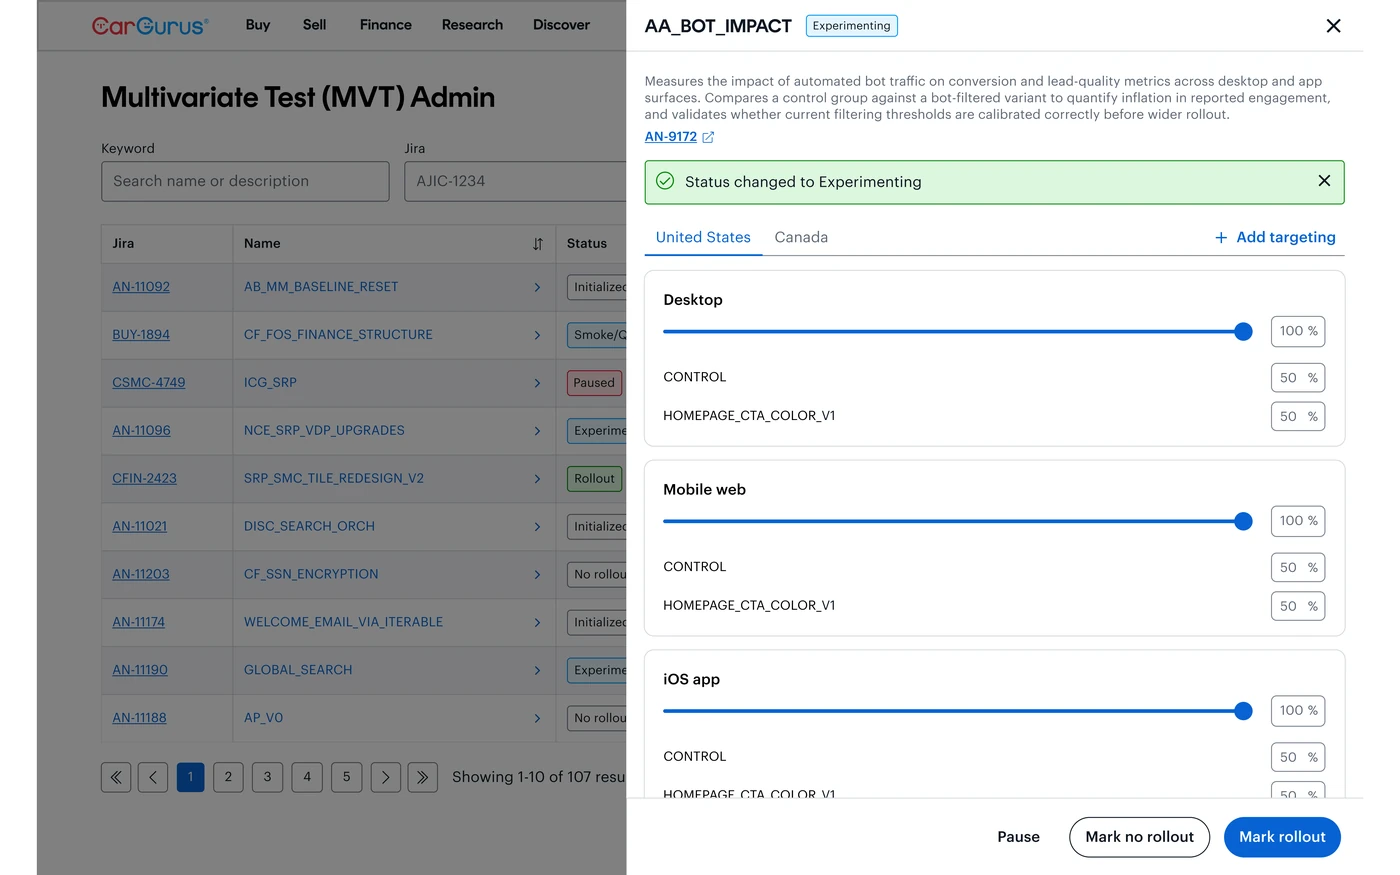
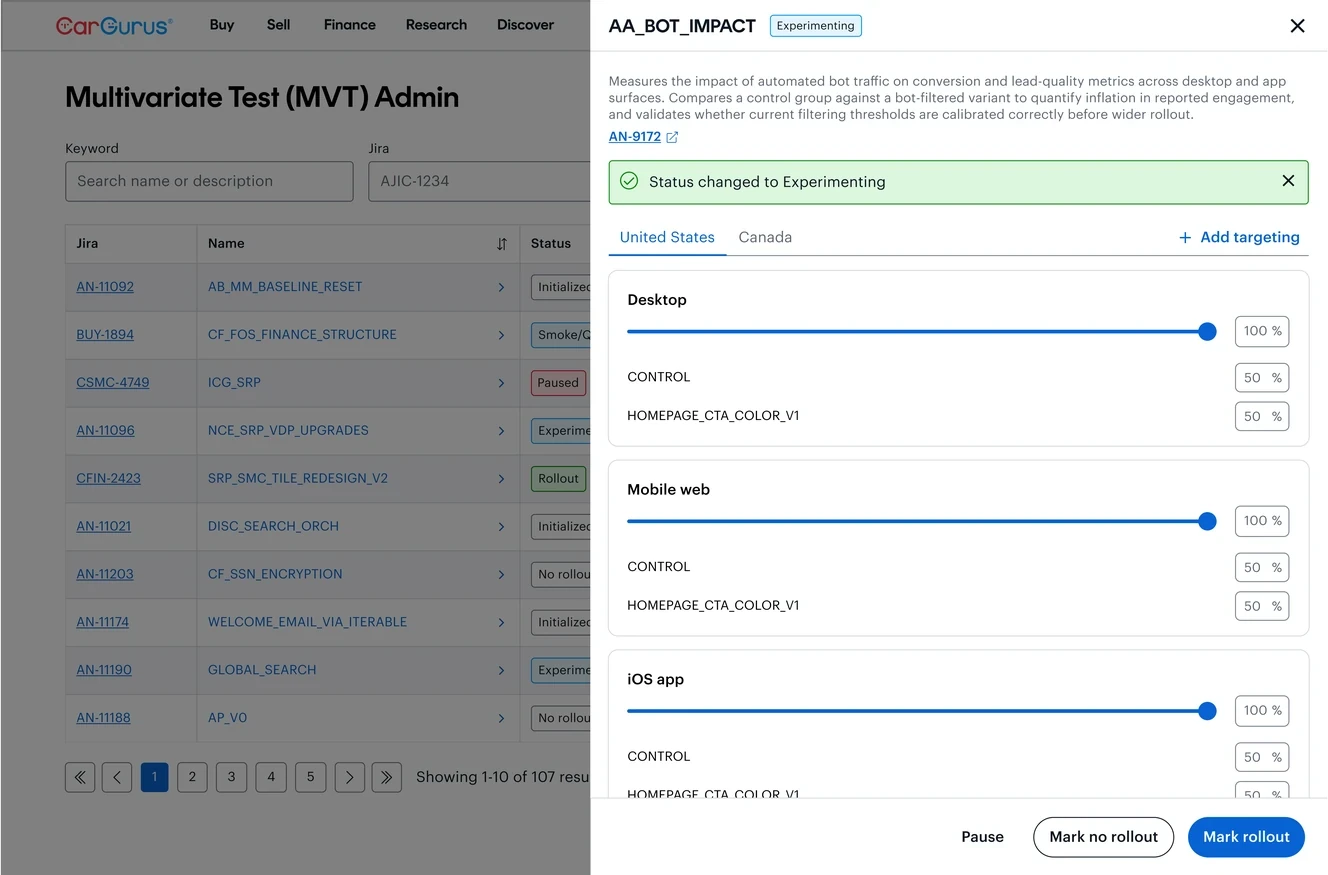
Remove white bars from interaction-model screenshots, clarify Overview copy
The three status-transition images no longer need to match a fixed aspect
ratio now that they're shown without a browser-frame wrapper, so the padded
white bars are cropped off. Also clarified that Created/Initialized/Active/
Inactive/Archived are statuses, and trimmed a redundant phrase in the old
workflow's description.

diff --git a/project5.html b/project5.html
@@ -62,7 +62,7 @@
               <section class="content-section">
                   <h2>Overview</h2>
                   <p class="lead">A powerful testing tool that nobody could read at a glance.</p>
-                  <p>As a UX Design Intern at CarGurus, I worked on the internal platform teams use to run A/B and multivariate tests. The old workflow, Created, Initialized, Active, Inactive, Archived, treated a test's entire life as one long "Active" phase. A test running at 1% of traffic for an initial sanity check looked identical, status-wise, to one fully ramped and being watched for real results. There was also no way to pause a test in progress: if something needed a closer look mid-run, the only options were to leave it running or take it down entirely, either way losing the ability to trust the data that had been collected.</p>
+                  <p>As a UX Design Intern at CarGurus, I worked on the internal platform teams use to run A/B and multivariate tests. The old workflow had five statuses, Created, Initialized, Active, Inactive, Archived, and treated a test's entire life as one long "Active" phase. A test running at 1% of traffic looked identical, status-wise, to one fully ramped and being watched for real results. There was also no way to pause a test in progress: if something needed a closer look mid-run, the only options were to leave it running or take it down entirely, either way losing the ability to trust the data that had been collected.</p>
                   <p>The work broke into three parts: information architecture, defining the new statuses and how they relate; interaction model, mapping how a test moves from one status to the next; and UI redesign, rebuilding the interface around that workflow.</p>
               </section>
 
